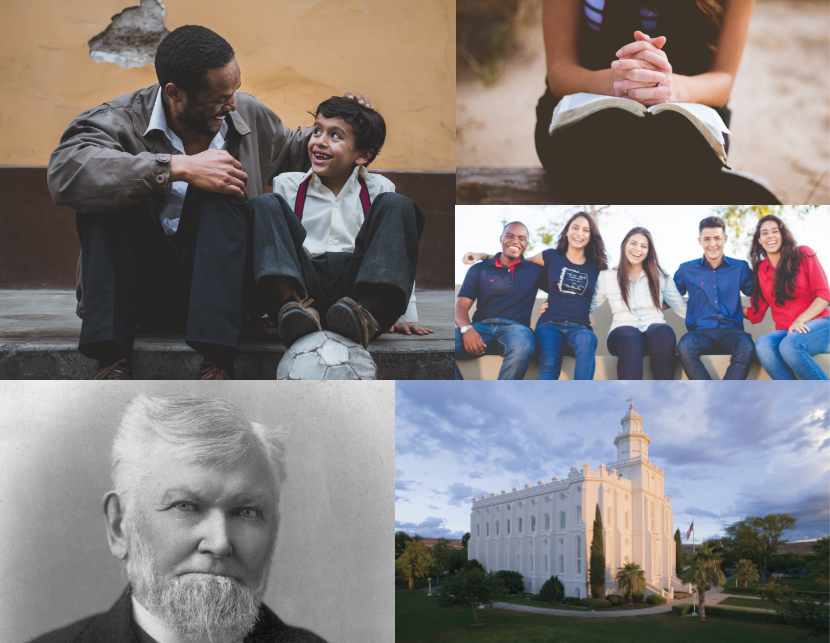
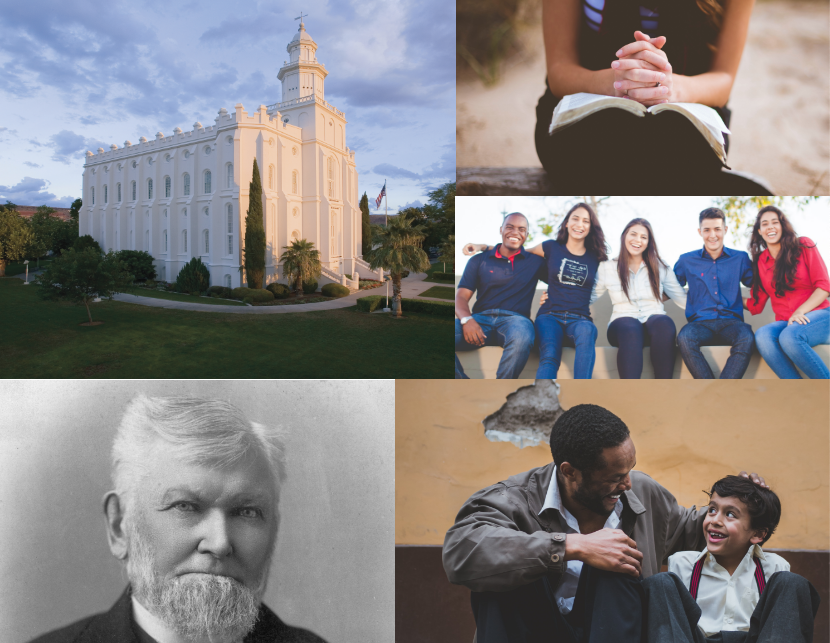
Moved images and updated intro text

diff --git a/resources/views/public/donate/online.blade.php b/resources/views/public/donate/online.blade.php
@@ -63,7 +63,14 @@
                     <h1 class="text-2xl md:text-6xl text-white">Donate Online</h1>
                 </div>
                 <div class="flex flex-1 items-center bg-highlight px-12 py-12 md:py-0">
-                    <p class="text-dark-blue text-lg text-justify"><span class="font-semibold">With your help</span>, the Wilford Woodruff Papers Foundation provides internships and creates jobs for college students. These positions represent 70% of all positions at the foundation! Your donations also allow us to take these papers, the doctrines they represent, and deliver them to an expansive LDS audience including the rising generation. Thanks to you, we deliver 65 years of church history in a personal way through videos, transcribed documents, social media, and partners such as: FamilySearch, Meridian, FAITH, and Book of Mormon Central.</p>
+                    <div class="flex flex-col gap-4">
+                        <p class="text-dark-blue text-lg text-justify">
+                            Your contribution will make it possible to share the 68 years of Church history and doctrine contained in Wilford Woodruff’s papers with those seeking truth.
+                        </p>
+                        <p class="text-dark-blue text-lg text-justify">
+                            You will also be providing  internship opportunities for college and high school students to work on this historic project. These young people represent 70% of our staff.
+                        </p>
+                    </div>
                 </div>
             </div>
             <div class="col-span-1 md:col-span-3">
